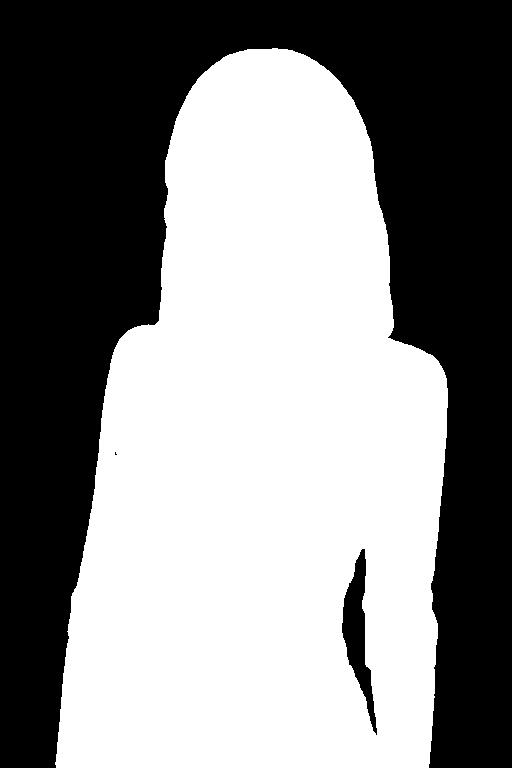
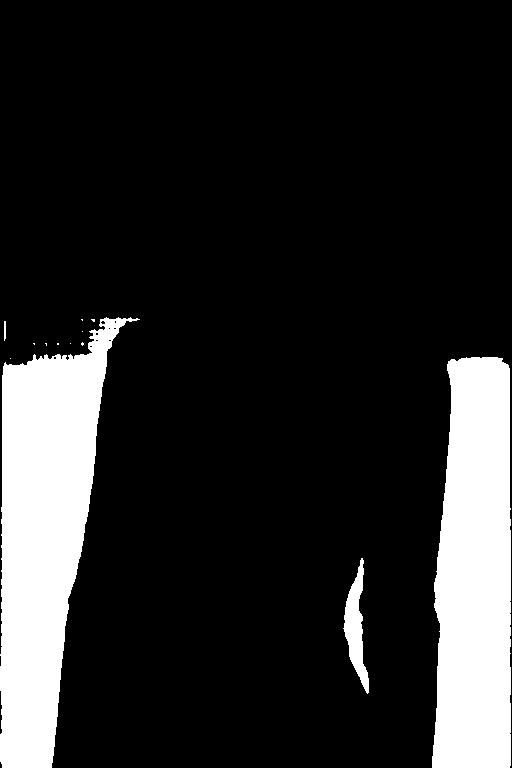
feature/kdh-obj-select-response

diff --git a/app/services/img2img/object_detect.py b/app/services/img2img/object_detect.py
@@ -37,7 +37,7 @@ sam.to(DEVICE)
 predictor = SamPredictor(sam)
 print("SAM 모델 로드 완료")
 
-async def object_detect_process(file: UploadFile):
+async def object_detect_process(file: UploadFile, x: int, y: int):
     # 이미지 파일 저장 경로 설정
     file_path = UPLOAD_DIR / file.filename
     print(f"파일 저장 경로: {file_path}")
@@ -53,17 +53,13 @@ async def object_detect_process(file: UploadFile):
         # SAM 모델로 객체 탐지
         predictor.set_image(image_np)
 
-        # 중심점 기준으로 전경 감지
-        image_height, image_width, _ = image_np.shape
-        center_x = image_width // 2
-        center_y = image_height // 2
-
+        # 클릭된 위치를 중심으로 전경 감지
         input_points = np.array([
-            [center_x, center_y],
-            [center_x - image_width // 4, center_y],
-            [center_x + image_width // 4, center_y],
-            [center_x, center_y - image_height // 4],
-            [center_x, center_y + image_height // 4]
+            [x, y],  # 사용자가 클릭한 좌표
+            [x - 30, y],
+            [x + 30, y],
+            [x, y - 30],
+            [x, y + 30]
         ])
         input_labels = np.array([1, 1, 1, 1, 1])
 

diff --git a/app/routers/img2img.py b/app/routers/img2img.py
@@ -1,18 +1,21 @@
-from fastapi import APIRouter, UploadFile, File
+from fastapi import APIRouter, UploadFile, File, Form
 from app.services.img2img.object_detect import object_detect_process
-from app.services.img2img.get_obj_dect_img import get_obj_dect_img_process
+from app.services.img2img.detected_image import detected_image
 
 router = APIRouter()
 
 @router.post("/object_detect")
-async def image_object_detect(file: UploadFile = File(...)):
-    image_path, objects = await object_detect_process(file)
+async def image_object_detect(file: UploadFile, x: int = Form(...), y: int = Form(...)):
+    # x: int = Form(...) <- FromData 안의 필드로 받음
+    print(f"이미지 파일: {file.filename}")
+    print(f"좌표: ({x}, {y})")
+    image_path, objects = await object_detect_process(file, x, y)
     return image_path, objects
 
-@router.get("/get_obj_dect_img")
+@router.get("/detected_image")
 async def get_image(image_path: str):
     # 이미지 경로를 서비스 함수로 전달하여 처리
-    response = await get_obj_dect_img_process(image_path)
+    response = await detected_image(image_path)
     return response
 
 

diff --git a/app/services/img2img/detected_image.py b/app/services/img2img/detected_image.py
@@ -1,10 +1,8 @@
 from fastapi.responses import FileResponse
 from pathlib import Path
 
-async def get_obj_dect_img_process(image_path: str):
+async def detected_image(image_path: str):
     try:
-        # 이미지 경로 처리
-        image_path.replace('%2F', '/')
         full_path = Path(image_path)
 
         # 파일 존재 여부 확인

diff --git a/app/routers/txt2img.py b/app/routers/txt2img.py
@@ -6,8 +6,7 @@ router = APIRouter()
 
 @router.post("")
 async def txt2img(request: GenerateRequest):
-    image_path = generate_image(request)
-    return image_path
+    return generate_image(request)
 
 @router.get("")
 async def ignore_get_generate():
